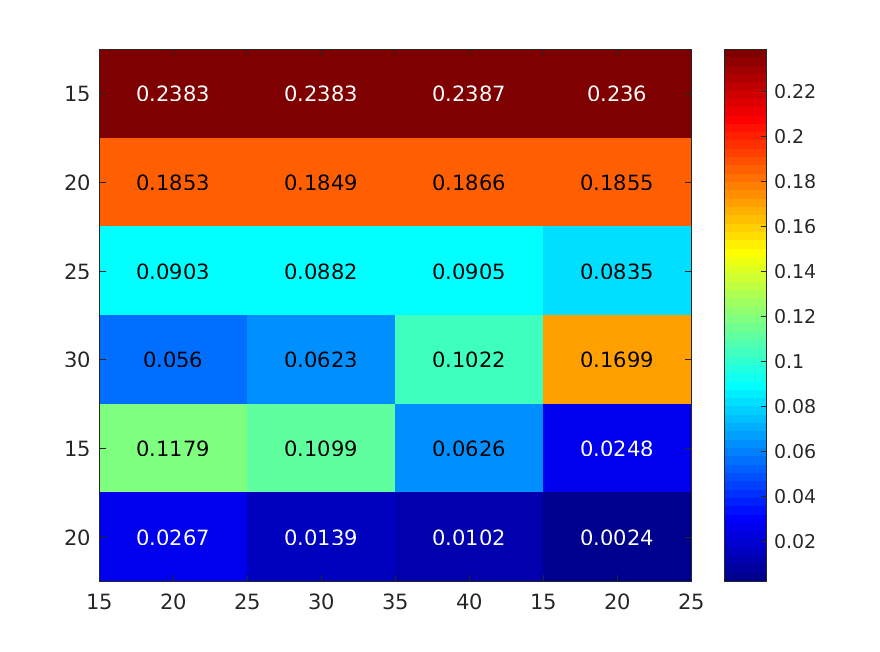
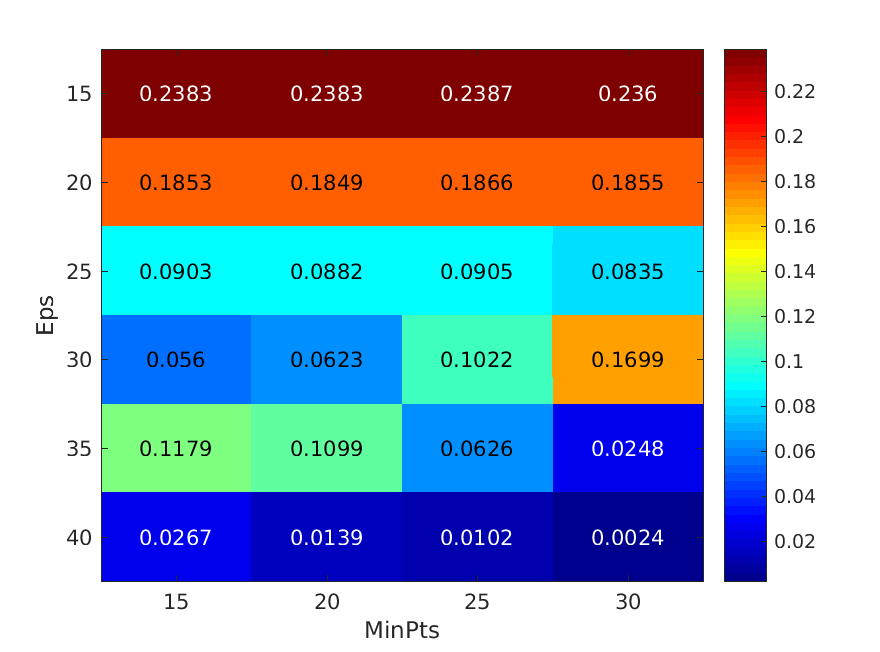
figures fixed

diff --git a/matlab/NNCoresetClustering/plot_results.m b/matlab/NNCoresetClustering/plot_results.m
@@ -1,35 +1,79 @@
 % ARI 4
 % AMI 5
 % VMeasure 6
-
+clear;
+clc;
 for K=[50, 70, 90]
     loaded_results = csvread(sprintf('results/centralizado_K%d.csv',K));
-    A = zeros(length(unique(loaded_results(:,2))),length(unique(loaded_results(:,3))) );
+    eps_values = unique(loaded_results(:,2));
+    minpts_values = unique(loaded_results(:,3));
+
+    A = zeros(length(eps_values),length(minpts_values) );
     h = 1;
-    for i=1:length(unique(loaded_results(:,2)))
-        arr = unique(loaded_results(:,2));
-        A(h,:) = loaded_results((loaded_results(:,2)==arr(i)), 6);
+    for i=1:length(eps_values)
+        A(h,:) = loaded_results((loaded_results(:,2)==eps_values(i)), 4);
         h = h + 1;
     end
 
     h = tabularHeatMap(A);
-    h.XTickLabel =  unique(loaded_results(:,2));
-    h.YTickLabel = unique(loaded_results(:,3));
-    saveas(h, sprintf('results/centralizado_VM_K%d.png',K));
+    xlabel('MinPts');
+    ylabel('Eps');
+    %h.YTick = transpose(eps_values);
+    h.YTickLabel =  num2cell(transpose(eps_values));
+    h.XTick =  1:length(minpts_values);
+    h.XTickLabel = num2cell(transpose(minpts_values));
+
+    saveas(h, sprintf('results/centralizado_ARI_K%d.png',K));
 end
 
 for K=[50, 70, 90]
     loaded_results = csvread(sprintf('results/distribuido_K%d.csv',K));
-    A = zeros(length(unique(loaded_results(:,2))),length(unique(loaded_results(:,3))) );
+    eps_values = unique(loaded_results(:,2));
+    minpts_values = unique(loaded_results(:,3));
+
+    A = zeros(length(eps_values),length(minpts_values) );
     h = 1;
-    for i=1:length(unique(loaded_results(:,2)))
-        arr = unique(loaded_results(:,2));
-        A(h,:) = loaded_results((loaded_results(:,2)==arr(i)), 6);
+    for i=1:length(eps_values)
+        A(h,:) = loaded_results((loaded_results(:,2)==eps_values(i)), 4);
         h = h + 1;
     end
 
     h = tabularHeatMap(A);
-    h.XTickLabel =  unique(loaded_results(:,2));
-    h.YTickLabel = unique(loaded_results(:,3));
-    saveas(h, sprintf('results/distribuido_VM_K%d.png',K));
+    xlabel('MinPts');
+    ylabel('Eps');
+    %h.YTick = transpose(eps_values);
+    h.YTickLabel =  num2cell(transpose(eps_values));
+    h.XTick =  1:length(minpts_values);
+    h.XTickLabel = num2cell(transpose(minpts_values));
+    saveas(h, sprintf('results/distribuido_ARI_K%d.png',K));
 end
+
+%%
+clear;
+clc;
+K = 50;
+loaded_results = csvread(sprintf('results/distribuido_K%d.csv',K));
+
+h = 1;
+eps_values = unique(loaded_results(:,2));
+minpts_values = unique(loaded_results(:,3));
+
+A = zeros(length(eps_values),length(minpts_values) );
+
+for i=1:length(eps_values)
+    A(h,:) = loaded_results((loaded_results(:,2)==eps_values(i)), 6);
+    h = h + 1;
+end
+
+h = tabularHeatMap(A);
+
+xlabel('MinPts');
+ylabel('Eps');
+%h.YTick = transpose(eps_values);
+h.YTickLabel =  num2cell(transpose(eps_values));
+h.XTick =  1:length(minpts_values);
+h.XTickLabel = num2cell(transpose(minpts_values));
+
+
+
+
